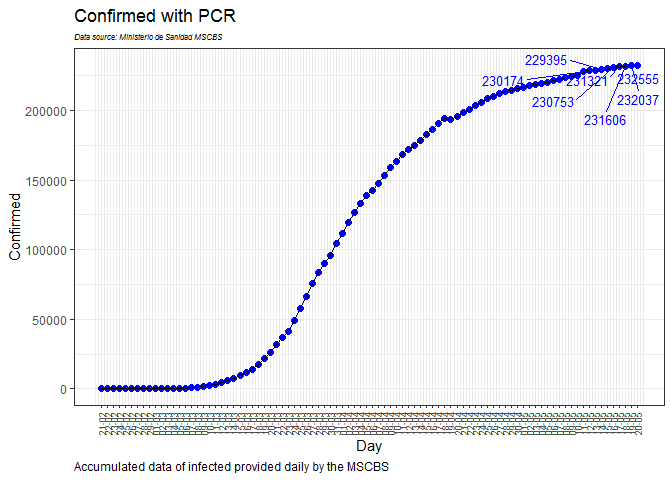
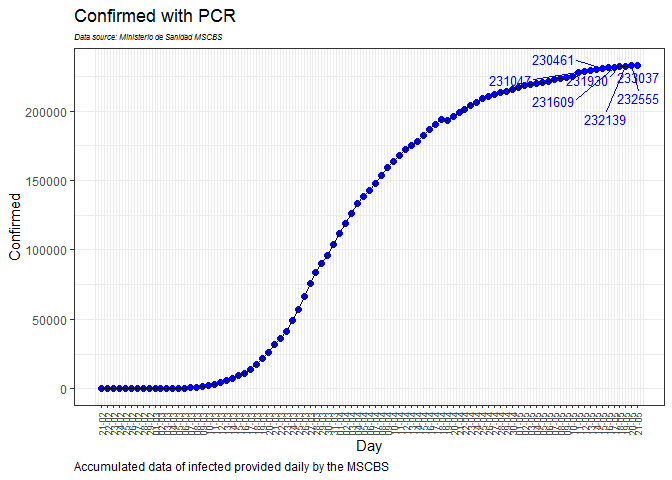
upgrade

diff --git a/README.md b/README.md
@@ -1,7 +1,7 @@
 Covid-19: The case of Spain
 ================
 JMSS \[Usal - CIC\]
-(updated: 20 may 2020)
+(updated: 21 may 2020)
 
 # Models for the COVID-19 pandemic in Spain
 
@@ -41,63 +41,65 @@ It is based on interpolation with cubic splines. See
 
 ![](README_files/figure-gfm/splinesD-1.png)<!-- -->
 
-##### Infecteds forecast for tomorrow (2020-05-21): 233073
+##### Infecteds forecast for tomorrow (2020-05-22): 233519
 
-##### Deaths forecast for tomorrow (2020-05-21): 27998
+##### Deaths forecast for tomorrow (2020-05-22): 27992
 
 Previous predictions:
 
     Infecteds forecast:
 
     20-05 -> predicted = 232037; observed = 232555; error = -0.22%
+    21-05 -> predicted = 233073; observed = 233037; error =  0.02%
 
     Deaths forecast:
 
-    06-04 -> predicted = 13092; observed = 12462; error =  4.81%
-    07-04 -> predicted = 13692; observed = 13219; error =  3.45%
-    08-04 -> predicted = 14541; observed = 13976; error =  3.89%
-    09-04 -> predicted = 15312; observed = 14757; error =  3.62%
-    10-04 -> predicted = 15921; observed = 15399; error =  3.28%
-    11-04 -> predicted = 16448; observed = 15899; error =  3.34%
-    12-04 -> predicted = 16863; observed = 16505; error =  2.12%
-    13-04 -> predicted = 17591; observed = 17056; error =  3.04%
-    14-04 -> predicted = 18006; observed = 17591; error =  2.30%
-    15-04 -> predicted = 18623; observed = 18276; error =  1.86%
-    16-04 -> predicted = 19102; observed = 18893; error =  1.09%
-    17-04 -> predicted = 19681; observed = 19478; error =  1.03%
-    18-04 -> predicted = 19826; observed = 20043; error = -1.09%
-    19-04 -> predicted = 20608; observed = 20453; error =  0.75%
-    20-04 -> predicted = 20863; observed = 20852; error =  0.05%
-    21-04 -> predicted = 21251; observed = 21282; error = -0.15%
+    06-04 -> predicted = 13092; observed = 12469; error =  4.76%
+    07-04 -> predicted = 13692; observed = 13224; error =  3.42%
+    08-04 -> predicted = 14541; observed = 13981; error =  3.85%
+    09-04 -> predicted = 15312; observed = 14760; error =  3.61%
+    10-04 -> predicted = 15921; observed = 15407; error =  3.23%
+    11-04 -> predicted = 16448; observed = 15905; error =  3.30%
+    12-04 -> predicted = 16863; observed = 16515; error =  2.06%
+    13-04 -> predicted = 17591; observed = 17064; error =  3.00%
+    14-04 -> predicted = 18006; observed = 17600; error =  2.25%
+    15-04 -> predicted = 18623; observed = 18282; error =  1.83%
+    16-04 -> predicted = 19102; observed = 18901; error =  1.05%
+    17-04 -> predicted = 19681; observed = 19490; error =  0.97%
+    18-04 -> predicted = 19826; observed = 20046; error = -1.11%
+    19-04 -> predicted = 20608; observed = 20454; error =  0.75%
+    20-04 -> predicted = 20863; observed = 20851; error =  0.06%
+    21-04 -> predicted = 21251; observed = 21283; error = -0.15%
     22-04 -> predicted = 21712; observed = 21717; error = -0.02%
-    23-04 -> predicted = 22152; observed = 22157; error = -0.02%
-    24-04 -> predicted = 22597; observed = 22524; error =  0.32%
-    25-04 -> predicted = 22891; observed = 22902; error = -0.05%
-    26-04 -> predicted = 23280; observed = 23190; error =  0.39%
-    27-04 -> predicted = 23478; observed = 23521; error = -0.18%
-    28-04 -> predicted = 23852; observed = 23822; error =  0.13%
-    29-04 -> predicted = 24123; observed = 24279; error = -0.65%
-    30-04 -> predicted = 24728; observed = 24547; error =  0.73%
-    01-05 -> predicted = 24811; observed = 24827; error = -0.06%
-    02-05 -> predicted = 25105; observed = 25106; error =  0.00%
-    03-05 -> predicted = 25376; observed = 25270; error =  0.42%
-    04-05 -> predicted = 25428; observed = 25434; error = -0.02%
-    05-05 -> predicted = 25592; observed = 25619; error = -0.11%
-    06-05 -> predicted = 25798; observed = 25863; error = -0.25%
-    07-05 -> predicted = 26101; observed = 26075; error =  0.10%
-    08-05 -> predicted = 26283; observed = 26303; error = -0.08%
-    09-05 -> predicted = 26528; observed = 26482; error =  0.17%
-    10-05 -> predicted = 26657; observed = 26625; error =  0.12%
-    11-05 -> predicted = 26764; observed = 26748; error =  0.06%
-    12-05 -> predicted = 26867; observed = 26923; error = -0.21%
-    13-05 -> predicted = 27096; observed = 27106; error = -0.04%
-    14-05 -> predicted = 27288; observed = 27323; error = -0.13%
-    15-05 -> predicted = 27538; observed = 27461; error =  0.28%
-    16-05 -> predicted = 27597; observed = 27563; error =  0.12%
-    17-05 -> predicted = 27667; observed = 27650; error =  0.06%
-    18-05 -> predicted = 27737; observed = 27709; error =  0.10%
-    19-05 -> predicted = 27768; observed = 27778; error = -0.04%
+    23-04 -> predicted = 22152; observed = 22156; error = -0.02%
+    24-04 -> predicted = 22597; observed = 22521; error =  0.34%
+    25-04 -> predicted = 22891; observed = 22898; error = -0.03%
+    26-04 -> predicted = 23280; observed = 23184; error =  0.41%
+    27-04 -> predicted = 23478; observed = 23516; error = -0.16%
+    28-04 -> predicted = 23852; observed = 23813; error =  0.16%
+    29-04 -> predicted = 24123; observed = 24272; error = -0.62%
+    30-04 -> predicted = 24728; observed = 24537; error =  0.77%
+    01-05 -> predicted = 24811; observed = 24818; error = -0.03%
+    02-05 -> predicted = 25105; observed = 25097; error =  0.03%
+    03-05 -> predicted = 25376; observed = 25260; error =  0.46%
+    04-05 -> predicted = 25428; observed = 25424; error =  0.02%
+    05-05 -> predicted = 25592; observed = 25610; error = -0.07%
+    06-05 -> predicted = 25798; observed = 25854; error = -0.22%
+    07-05 -> predicted = 26101; observed = 26062; error =  0.15%
+    08-05 -> predicted = 26283; observed = 26291; error = -0.03%
+    09-05 -> predicted = 26528; observed = 26469; error =  0.22%
+    10-05 -> predicted = 26657; observed = 26613; error =  0.17%
+    11-05 -> predicted = 26764; observed = 26737; error =  0.10%
+    12-05 -> predicted = 26867; observed = 26909; error = -0.16%
+    13-05 -> predicted = 27096; observed = 27091; error =  0.02%
+    14-05 -> predicted = 27288; observed = 27308; error = -0.07%
+    15-05 -> predicted = 27538; observed = 27449; error =  0.32%
+    16-05 -> predicted = 27597; observed = 27549; error =  0.17%
+    17-05 -> predicted = 27667; observed = 27634; error =  0.12%
+    18-05 -> predicted = 27737; observed = 27693; error =  0.16%
+    19-05 -> predicted = 27768; observed = 27793; error = -0.09%
     20-05 -> predicted = 27847; observed = 27888; error = -0.15%
+    21-05 -> predicted = 27998; observed = 27940; error =  0.21%
 
 -----
 
